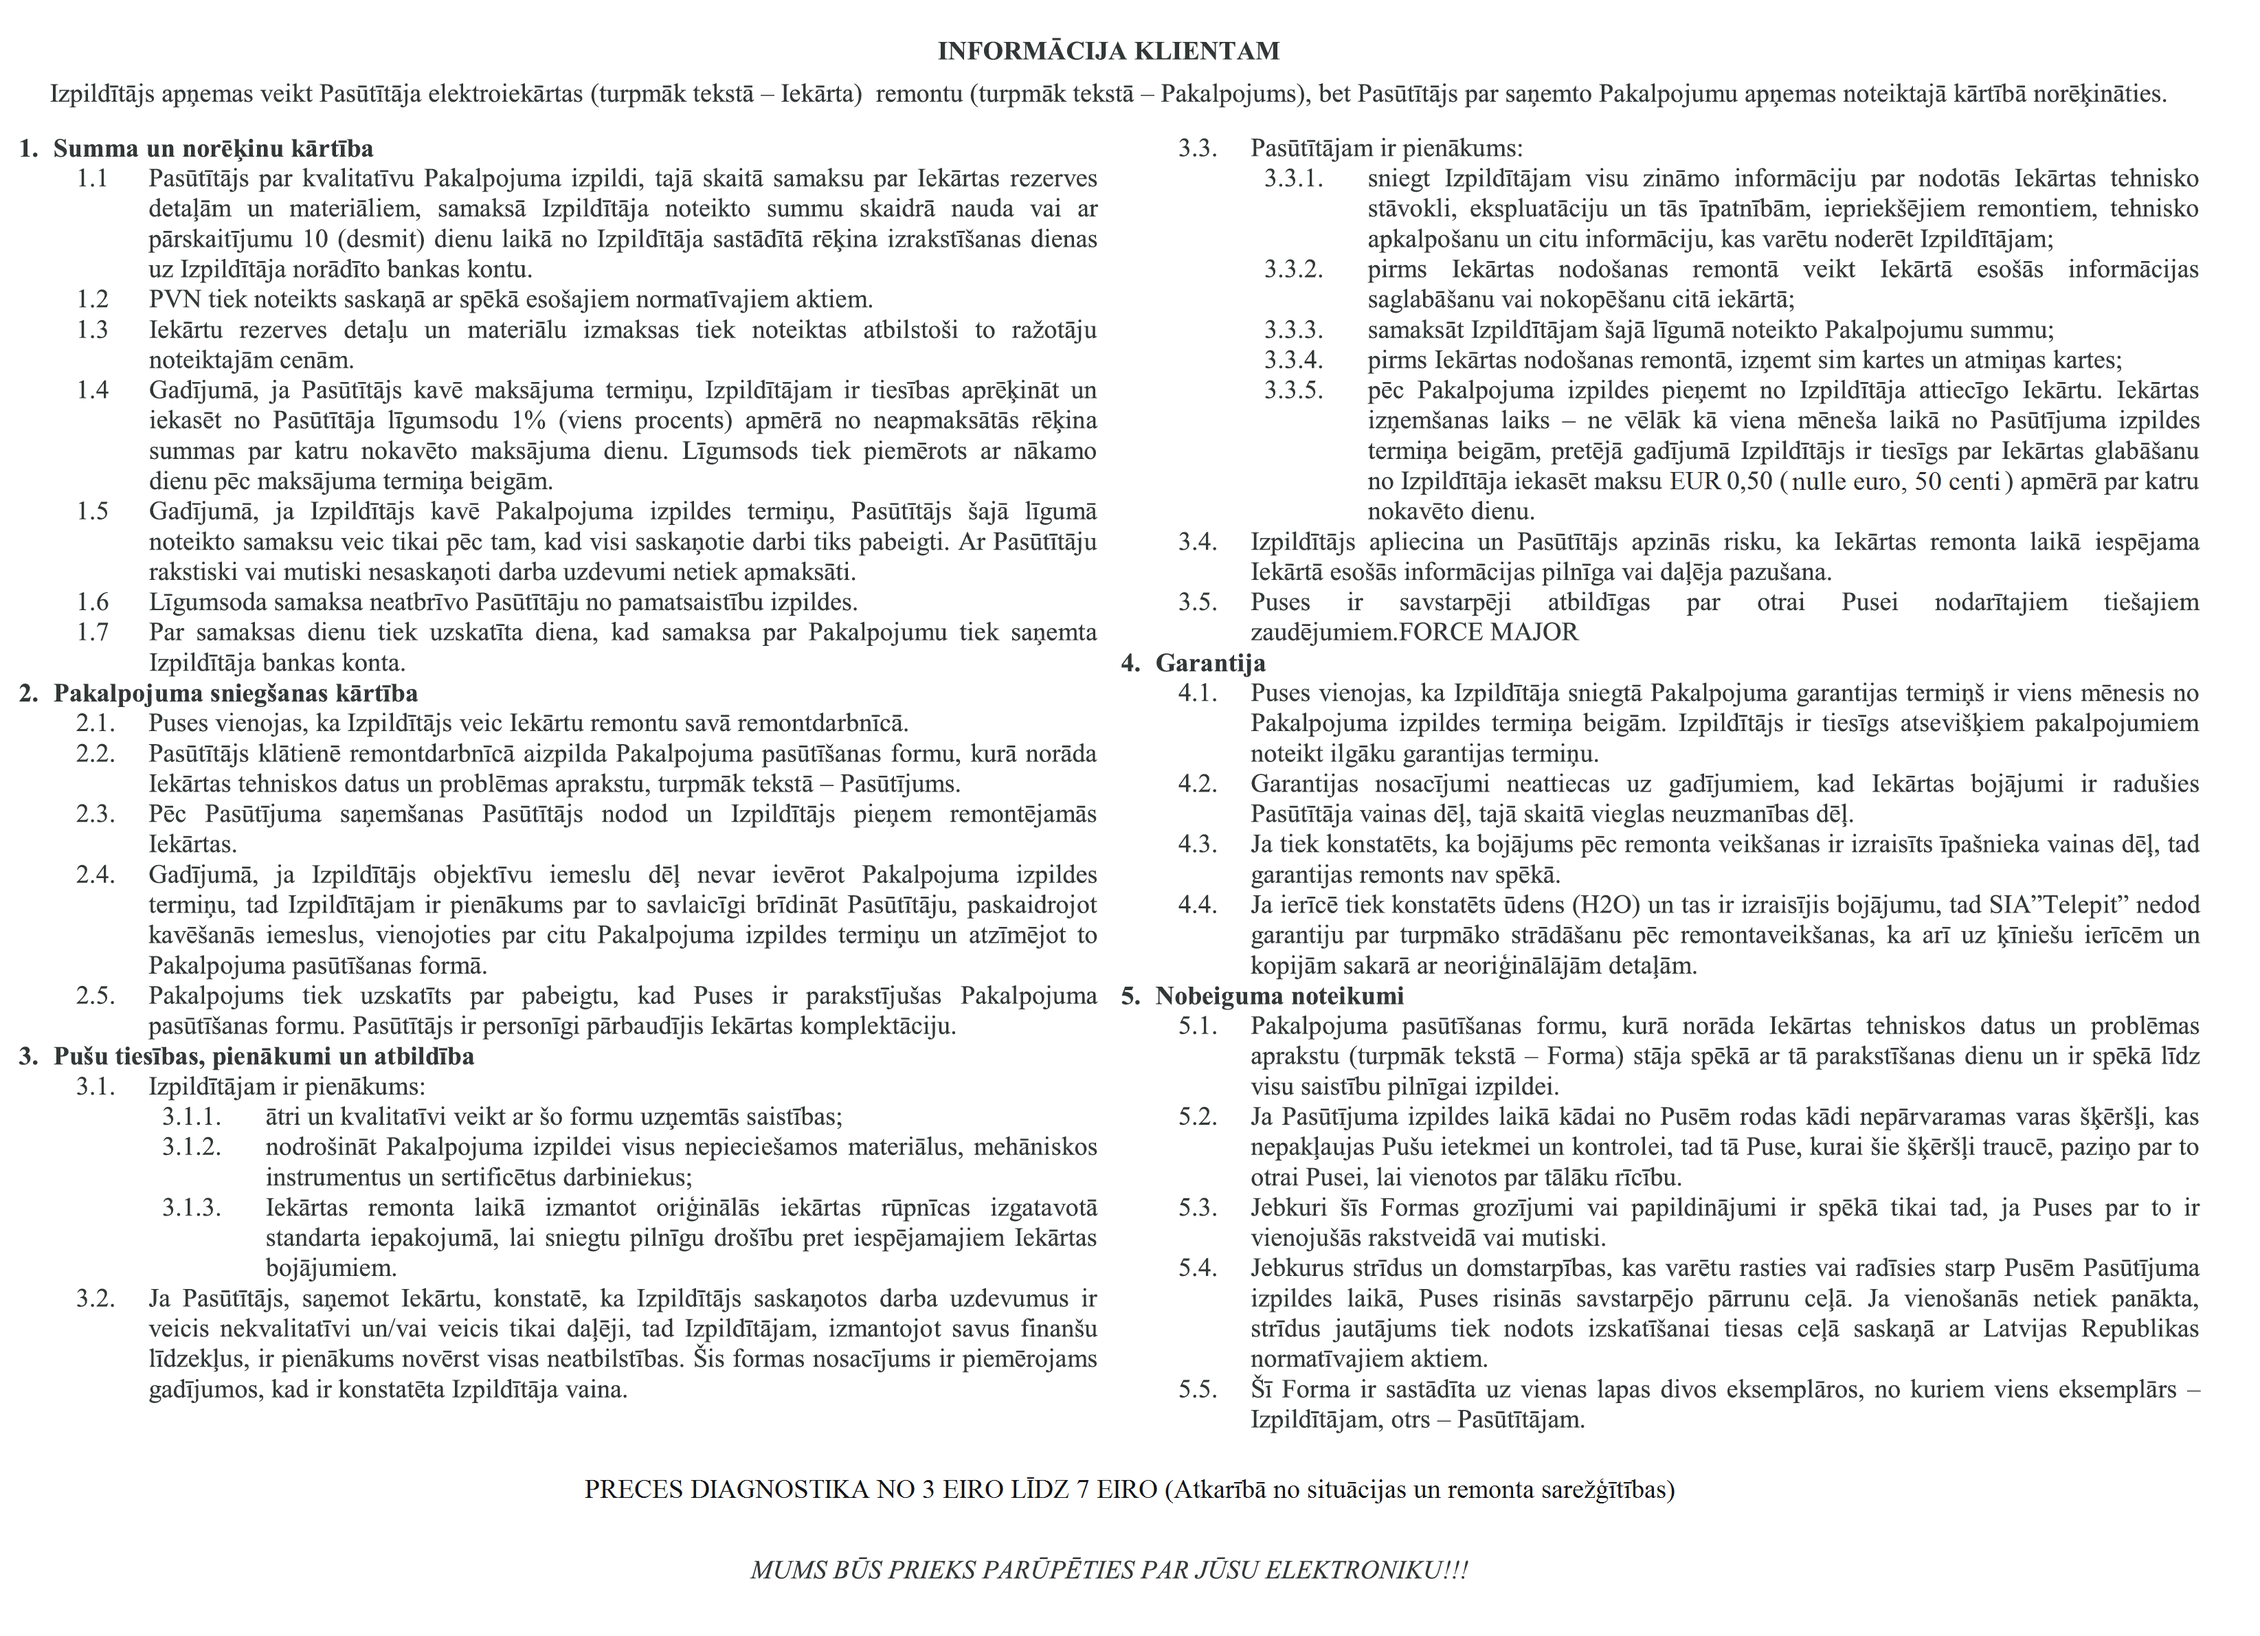
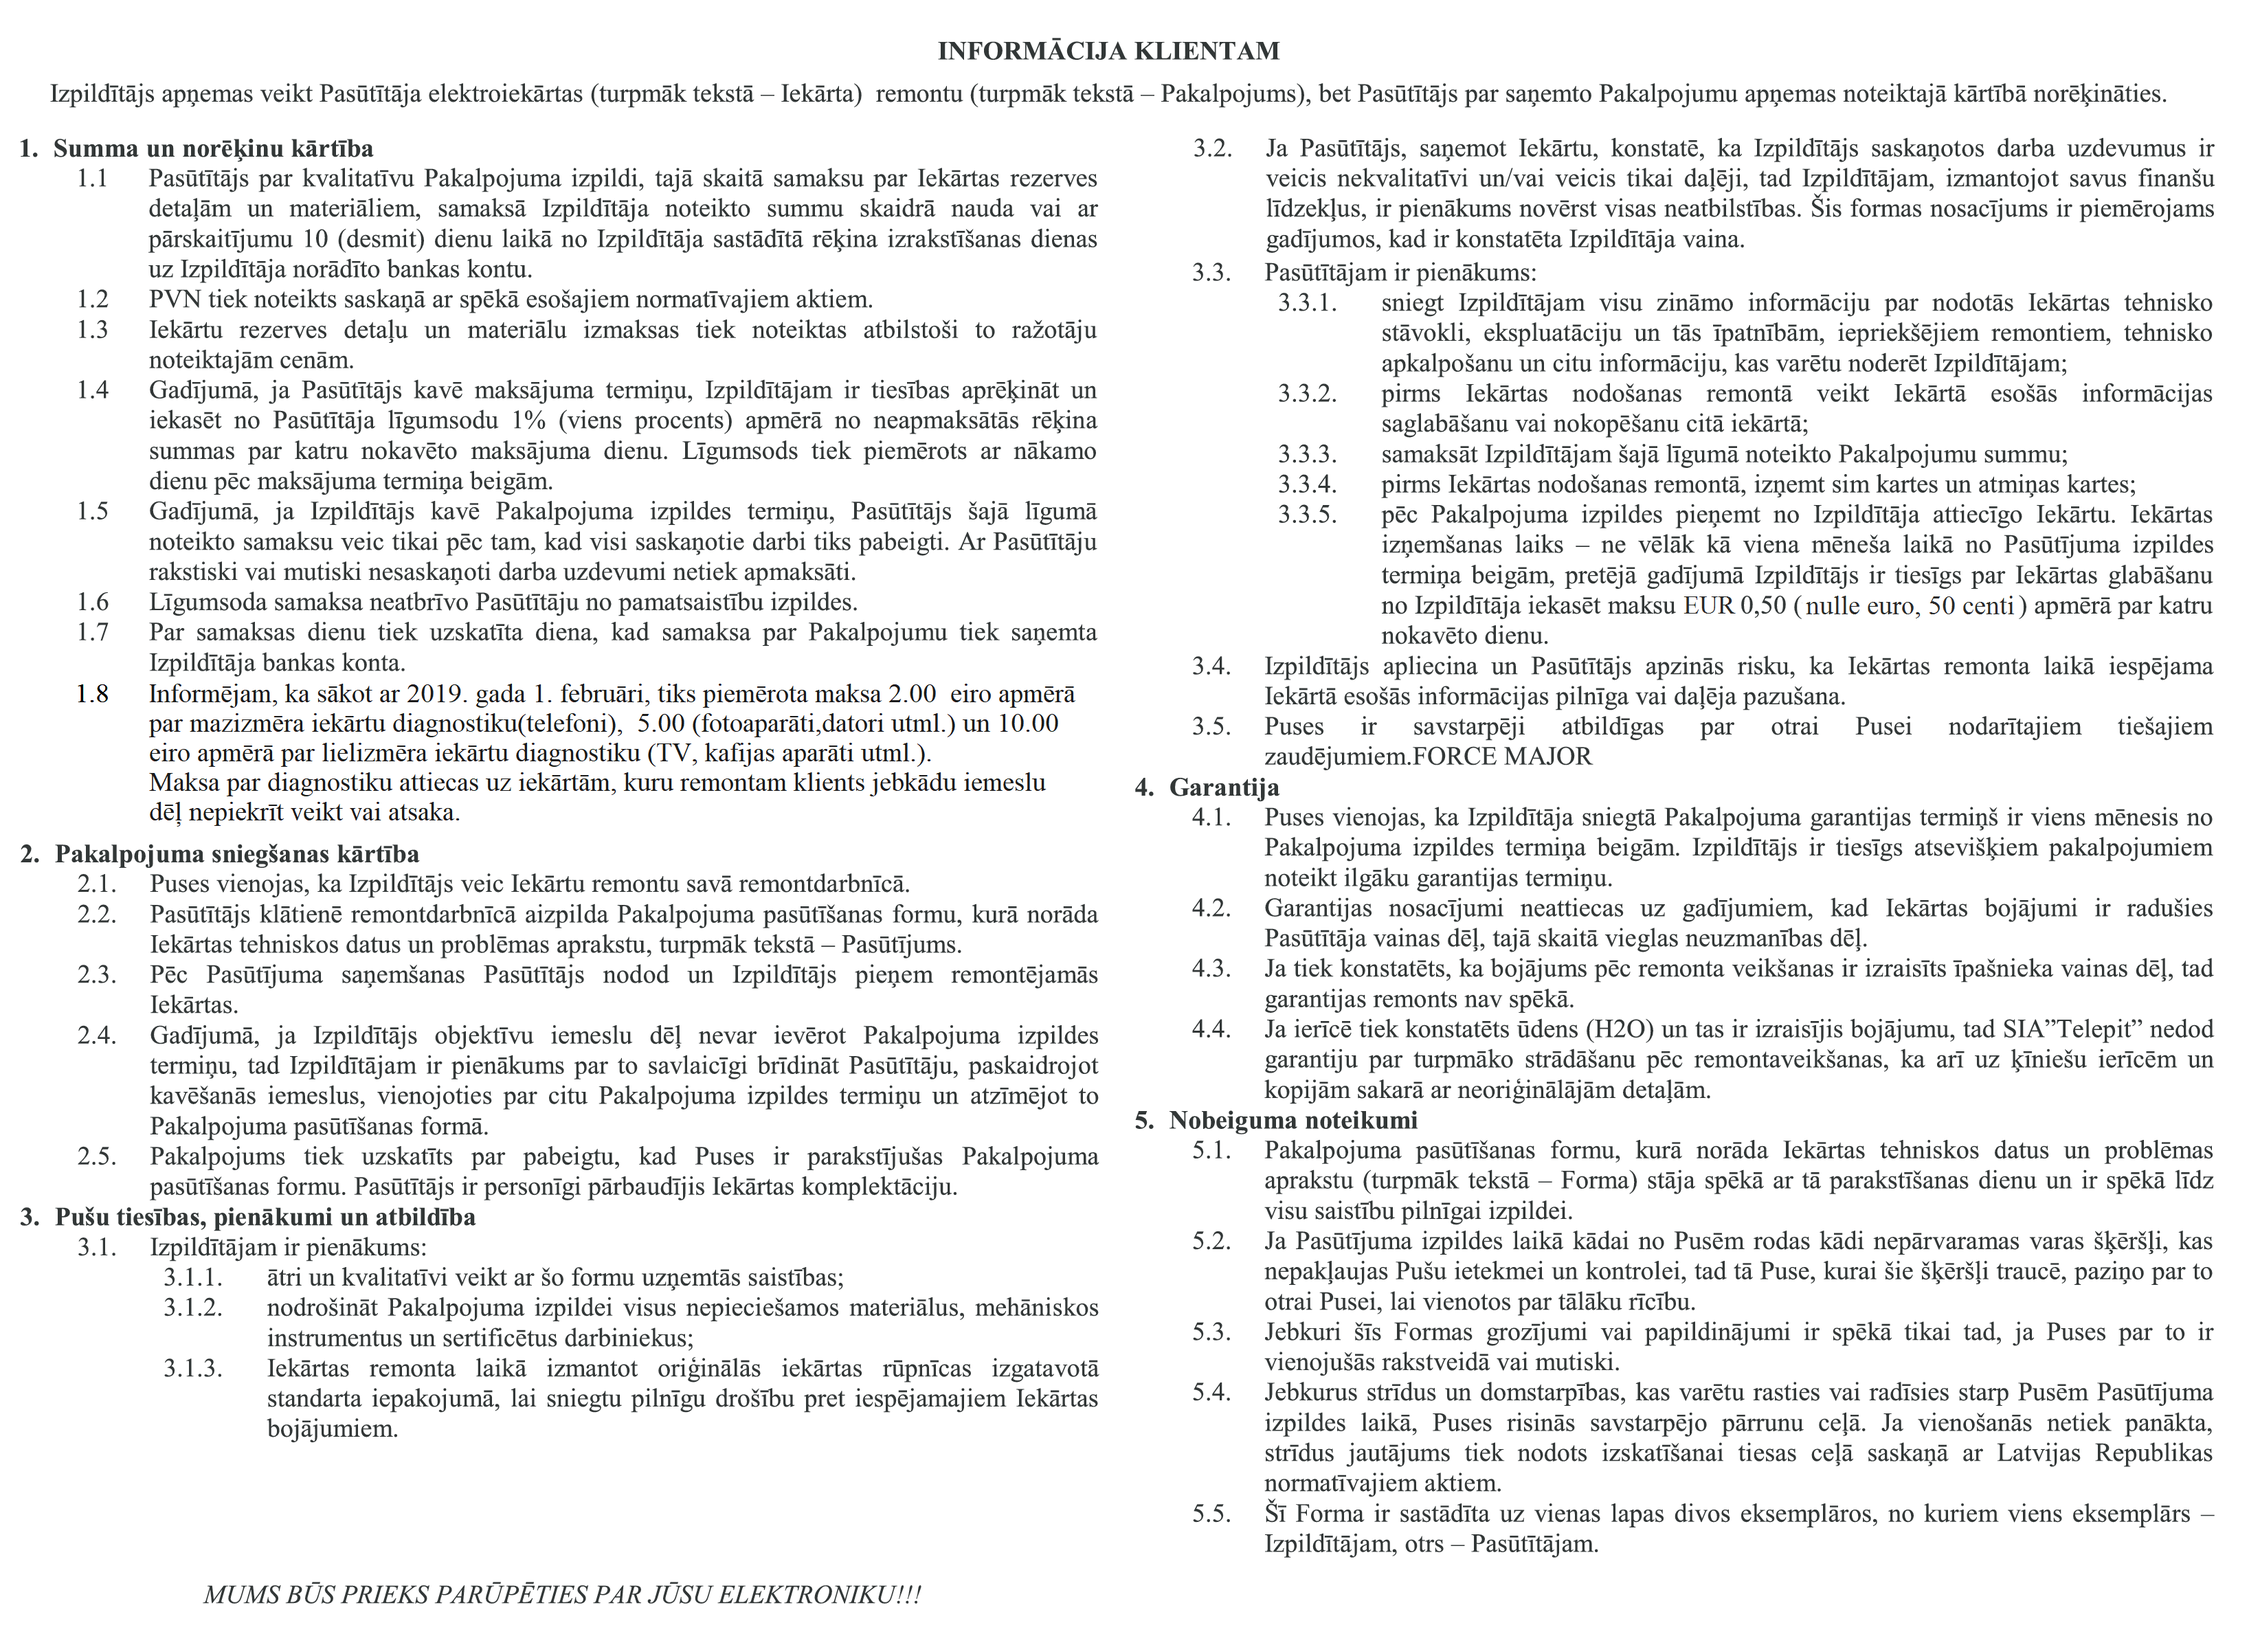
diagnostics

Changed region(s): [[0.031, 0.0622, 0.9924, 0.9635], [0.093, 0.9013, 0.4962, 0.9945]]

diff --git a/src/main/java/lv/telepit/utils/ExcelUtils.java b/src/main/java/lv/telepit/utils/ExcelUtils.java
@@ -216,20 +216,23 @@ public class ExcelUtils {
         Label h12 = new Label(11, y, bundle.getString("service.good.returnedDate"), boldCellWithBorder);
         sheet.addCell(h12);
 
-        Label h13 = new Label(12, y, bundle.getString("service.good.price"), boldCellWithBorder);
+        Label h13 = new Label(12, y, bundle.getString("service.good.diagnostics"), boldCellWithBorder);
         sheet.addCell(h13);
-
-        Label h14 = new Label(13, y, bundle.getString("service.good.contactName"), boldCellWithBorder);
+        
+        Label h14 = new Label(13, y, bundle.getString("service.good.price"), boldCellWithBorder);
         sheet.addCell(h14);
 
-        Label h15 = new Label(14, y, bundle.getString("service.good.contactPhone"), boldCellWithBorder);
+        Label h15 = new Label(14, y, bundle.getString("service.good.contactName"), boldCellWithBorder);
         sheet.addCell(h15);
 
-        Label h16 = new Label(15, y, bundle.getString("service.good.contactMail"), boldCellWithBorder);
+        Label h16 = new Label(15, y, bundle.getString("service.good.contactPhone"), boldCellWithBorder);
         sheet.addCell(h16);
 
-        Label h17 = new Label(16, y, bundle.getString("service.good.additionalDescription"), boldCellWithBorder);
+        Label h17 = new Label(16, y, bundle.getString("service.good.contactMail"), boldCellWithBorder);
         sheet.addCell(h17);
+
+        Label h18 = new Label(17, y, bundle.getString("service.good.additionalDescription"), boldCellWithBorder);
+        sheet.addCell(h18);
 
         y++;
 
@@ -246,11 +249,12 @@ public class ExcelUtils {
             sheet.addCell(new Label(9, y, getValue(sg.getStartDate()), normalCellWithBorder));
             sheet.addCell(new Label(10, y, getValue(sg.getFinishDate()), normalCellWithBorder));
             sheet.addCell(new Label(11, y, getValue(sg.getReturnedDate()), normalCellWithBorder));
-            sheet.addCell(new Label(12, y, getValue(sg.getPrice()), normalCellWithBorder));
-            sheet.addCell(new Label(13, y, getValue(sg.getContactName()), normalCellWithBorder));
-            sheet.addCell(new Label(14, y, getValue(sg.getContactPhone()), normalCellWithBorder));
-            sheet.addCell(new Label(15, y, getValue(sg.getContactMail()), normalCellWithBorder));
-            sheet.addCell(new Label(16, y, getValue(sg.getAdditionalDescription()), normalCellWithBorder));
+            sheet.addCell(new Label(12, y, getValue(sg.getDiagnostics()), normalCellWithBorder));
+            sheet.addCell(new Label(13, y, getValue(sg.getPrice()), normalCellWithBorder));
+            sheet.addCell(new Label(14, y, getValue(sg.getContactName()), normalCellWithBorder));
+            sheet.addCell(new Label(15, y, getValue(sg.getContactPhone()), normalCellWithBorder));
+            sheet.addCell(new Label(16, y, getValue(sg.getContactMail()), normalCellWithBorder));
+            sheet.addCell(new Label(17, y, getValue(sg.getAdditionalDescription()), normalCellWithBorder));
             y++;
         }
     }

diff --git a/src/main/java/lv/telepit/ui/view/ServiceView.java b/src/main/java/lv/telepit/ui/view/ServiceView.java
@@ -111,7 +111,7 @@ public class ServiceView extends AbstractView {
         excelDownloader.extend(xlsButton);
 
         container = new BeanItemContainer<>(ServiceGood.class);
-        table = new CommonTable(container, "service.good", "customId", "store", "category", "name", "status", "accumNum", "problem", "price", "warranty", "called", "deliveredDate", "returnedDate", "contactName", "contactPhone");
+        table = new CommonTable(container, "service.good", "customId", "store", "category", "name", "status", "accumNum", "problem", "diagnostics", "price", "warranty", "called", "deliveredDate", "returnedDate", "contactName", "contactPhone");
         table.setAlwaysRecalculateColumnWidths(true);
         table.setCellStyleGenerator((Table.CellStyleGenerator) (source, itemId, propertyId) -> {
             ServiceGood sg = container.getItem(itemId).getBean();
@@ -207,7 +207,7 @@ public class ServiceView extends AbstractView {
         container.removeAllItems();
         container.addAll(serviceGoods);
         container.sort(new Object[]{"id"}, new boolean[]{false});
-        table.setColumnWidths(0.5f, 1.0f, 1.0f, 1.0f, 1.0f, 1.0f, 1.0f, 0.5f, 0.1f, 0.1f, 0.8f, 0.8f, 1.0f, 1.0f);
+        table.setColumnWidths(0.5f, 1.0f, 1.0f, 1.0f, 1.0f, 1.0f, 1.0f, 0.5f, 0.5f, 0.1f, 0.1f, 0.8f, 0.8f, 1.0f, 1.0f);
         table.refreshRowCache();
     }
 

diff --git a/src/main/java/lv/telepit/ui/form/ServiceGoodForm.java b/src/main/java/lv/telepit/ui/form/ServiceGoodForm.java
@@ -45,6 +45,9 @@ public class ServiceGoodForm extends FormLayout {
     @PropertyId("problem")
     private TextArea problemField = FieldFactory.getTextArea("service.problem");
 
+    @PropertyId("diagnostics")
+    private TextField diagnostics = FieldFactory.getNumberField("service.diagnostics");
+    
     @PropertyId("price")
     private TextField price = FieldFactory.getNumberField("service.price");
 
@@ -87,6 +90,7 @@ public class ServiceGoodForm extends FormLayout {
             good.setDeliveredDate(new Date());
             good.setStatus(ServiceStatus.WAITING);
             good.setPrice(0.00);
+            good.setDiagnostics(0.00);
         }
 
         if (view.getUi().getCurrentUser().isAdmin()) {
@@ -113,6 +117,7 @@ public class ServiceGoodForm extends FormLayout {
             addComponent(finishDateField);
             addComponent(returnedDateField);
         }
+        addComponent(diagnostics);
         addComponent(price);
         addComponent(warranty);
         addComponent(contactNameField);
@@ -124,6 +129,7 @@ public class ServiceGoodForm extends FormLayout {
         }
 
         if (!view.getUi().getCurrentUser().isAdmin() && good.getId() != 0) {
+            diagnostics.setReadOnly(true);
             price.setReadOnly(true);
         }
 

diff --git a/src/main/java/lv/telepit/model/ServiceGood.java b/src/main/java/lv/telepit/model/ServiceGood.java
@@ -27,6 +27,7 @@ public class ServiceGood {
     private String imei;
     private String accumNum;
     private String problem;
+    private Double diagnostics;
     private Double price;
     private Date deliveredDate;
     private Date startDate;
@@ -165,6 +166,17 @@ public class ServiceGood {
                 this.problem != null ? this.problem : "-",
                 problem != null ? problem : "-");
         this.problem = problem;
+    }
+
+    public Double getDiagnostics() {
+        return diagnostics;
+    }
+
+    public void setDiagnostics(Double diagnostics) {
+        change.addChange("diagnostics",
+                this.diagnostics != null ? this.diagnostics.toString() : "-",
+                diagnostics != null ? diagnostics.toString() : "-");
+        this.diagnostics = diagnostics;
     }
 
     public Double getPrice() {
